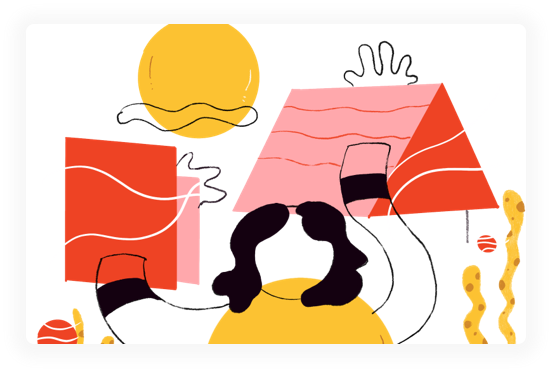
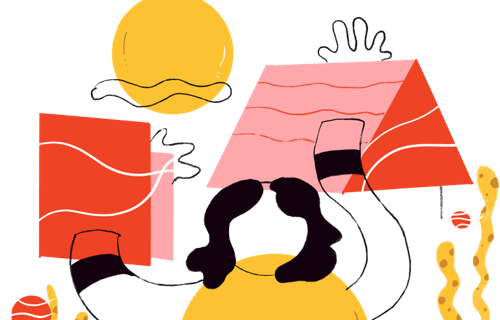
update page/home and style

diff --git a/docs/.vuepress/components/IndexHome.vue b/docs/.vuepress/components/IndexHome.vue
@@ -1,17 +1,22 @@
 <template>
     <div id="main">
         <div class="banner item" :style="bannerStyle">
-            <h3 class="title">
-                随时随地抵达你的<br />
-                私人网络
-            </h3>
-            <div class="desc">
-                简单、快速的内网穿透工具，不受<br />
-                网络限制，全局掌控您的私人设备
+            <div class="f">
+                <h3 class="title">
+                    随时随地抵达你的<br />
+                    私人网络
+                </h3>
+                <div class="desc">
+                    简单、快速的内网穿透工具，不受<br />
+                    网络限制，全局掌控您的私人设备
+                </div>
+                <router-link to="/zh/guide/quick.html" class="experience">
+                    免费体验
+                </router-link>
             </div>
-            <router-link to="/zh/guide/quick.html" class="experience">
-                免费体验
-            </router-link>
+            <div class="r">
+                <img :src="banner_icon" alt="">
+            </div>
 
         </div>
 
@@ -76,7 +81,8 @@
 </template>
 
 <script>
-import banner from "../public/assets/home/home_bg.jpg"
+import banner from "../public/assets/home/home_bannerbg.png"
+import banner_icon from "../public/assets/home/home_bannericon.png"
 import home_pic1 from "../public/assets/home/home_pic1.png"
 import home_pic2 from "../public/assets/home/home_pic2.png"
 import home_pic3 from "../public/assets/home/home_pic3.png"
@@ -90,7 +96,7 @@ export default {
             home_pic2,
             home_pic3,
             home_pic4,
-
+            banner_icon,
         }
     },
     computed: {
@@ -122,7 +128,7 @@ export default {
     margin-top: 3.125rem;
     .item {
         width: 100%;
-        padding: 0 5.625rem;
+        padding: 0 10%;
         margin-bottom: 5.625rem;
     }
     .banner {
@@ -134,38 +140,49 @@ export default {
         flex-wrap: wrap;
         align-items: center;
         align-content: center;
-        justify-content: flex-start;
-        h3.title {
-            width: 100%;
-            color: #000;
-            font-size: 2.375rem;
-            font-family: PingFangSC-Semibold, PingFang SC;
-            font-weight: 600;
-            margin: 0;
+        .f {
+            flex: 0 0 100%;
+            max-width: 50%;
+            h3.title {
+                width: 100%;
+                color: #000;
+                font-size: 2.375rem;
+                font-family: PingFangSC-Semibold, PingFang SC;
+                font-weight: 600;
+                margin: 0;
+            }
+            .desc {
+                width: 100%;
+                font-size: 1.275rem;
+                font-family: PingFangSC-Regular, PingFang SC;
+                font-weight: 400;
+                color: rgba(0, 0, 0, 0.83);
+                margin: 1.875rem 0;
+            }
+            a.experience {
+                display: inline-block;
+                width: 9.25rem;
+                line-height: 3rem;
+                background-color: #0255fe;
+                text-align: center;
+                border-radius: 3.125rem;
+                color: #fff;
+            }
+            a.experience:hover {
+                opacity: 0.8;
+            }
         }
-        .desc {
-            width: 100%;
-            font-size: 1.275rem;
-            font-family: PingFangSC-Regular, PingFang SC;
-            font-weight: 400;
-            color: rgba(0, 0, 0, 0.83);
-            margin: 1.875rem 0;
-        }
-        a.experience {
-            width: 9.25rem;
-            line-height: 3rem;
-            background-color: #0255fe;
-            text-align: center;
-            border-radius: 3.125rem;
-            color: #fff;
-        }
-        a.experience:hover {
-            opacity: 0.8;
+        .r {
+            flex: 0 0 100%;
+            max-width: 50%;
+            img {
+                max-width: 100%;
+            }
         }
     }
     .player {
         width: 100%;
-        height: 46.125rem;
+        height: 32.5rem;
         text-align: center;
         display: flex;
         flex-wrap: wrap;
@@ -187,6 +204,8 @@ export default {
         align-items: center;
         img {
             max-width: 100%;
+            border-radius: 1rem;
+            box-shadow: 0 0 10px 5px #f8f8f8;
         }
         .r {
             display: flex;
@@ -221,7 +240,6 @@ export default {
             }
             .title {
                 width: 100%;
-                height: 3.9375rem;
                 font-size: 2.375rem;
                 font-family: PingFangSC-Semibold, PingFang SC;
                 font-weight: 600;
@@ -230,7 +248,6 @@ export default {
             }
             .desc {
                 width: 100%;
-                height: 5rem;
                 font-size: 1.0625rem;
                 font-family: PingFangSC-Regular, PingFang SC;
                 font-weight: 400;
@@ -270,10 +287,20 @@ export default {
         .item {
             width: 100%;
             padding: 0 1.875rem;
-            margin-bottom: 0;
+            margin-bottom: 1.25rem;
         }
         .banner {
-            justify-content: center;
+            .f {
+                max-width: 100%;
+                display: flex;
+                flex-wrap: wrap;
+                align-content: center;
+                align-items: center;
+                justify-content: center;
+            }
+            .r {
+                display: none;
+            }
         }
         .player {
             display: none;

diff --git a/docs/.vuepress/components/Article.vue b/docs/.vuepress/components/Article.vue
@@ -141,10 +141,11 @@ li {
                 border: 1px solid;
                 border-radius: 3px;
                 margin-left: 0;
-                color: #3eaf7c;
+                font-size: 14px;
+                color: #0255fe;
             }
             a.tag:hover {
-                color: #0255fe;
+                opacity: 0.9;
             }
         }
     }
